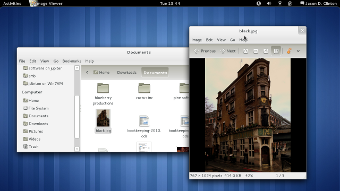
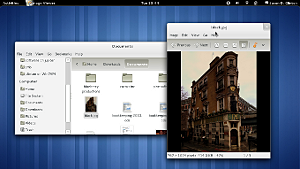
Use 12 column grid. It makes absolutely no sense to mix 16 and 12.
- I tink andreasn was jetlagged when he thought of that.

diff --git a/index.html b/index.html
@@ -19,18 +19,18 @@
 </head>
 <body>
 
-<div class="container_16">
-  <div class="grid_5">
+<div class="container_12">
+  <div class="grid_4">
     <a href="index.html"><img src="img/logo.png" class="logo"/></a>
   </div><!-- grid_4 -->
-  <div class="grid_10 prefix_1">
+  <div class="grid_7 prefix_1">
     <ul class="navigation"><li><a href="index.html">Home</a></li><li><a href="faq.html">Common questions and answers
 </a></li><li><a href="tryit.html">Try it out!</a></li></ul>
 <div class="countdown" style="visibility: hidden;">Releasing awesome in: <span id="countbox"></span></div>
   </div><!-- grid_12 -->
 </div>
-<div class="container_16">
-  <div class="grid_16">
+<div class="container_12">
+  <div class="grid_12">
       <div id="splash">
         <!-- Overlay decal can go here, like Alpha, Beta, NEW!
         <img class="alpha-banner" src="img/alpha-banner.png"/>
@@ -61,9 +61,9 @@
 
 <div class="clear"></div>
 
-<div class="container_16 features">
-  <div class="grid_6"><a href="img/overview-big.png" rel="fancybox"><img class="screenshot" src="img/overview.png"/></a></div>
-  <div class="grid_10">
+<div class="container_12 features">
+  <div class="grid_4"><a href="img/overview-big.png" rel="fancybox"><img class="screenshot" src="img/overview.png"/></a></div>
+  <div class="grid_8">
   <h2>Simply beautiful</h2>
 
   <p>GNOME's new desktop takes elegance to a new level. We've swept away the clutter and made a simple and easy-to-use desktop, and we've made this the most beautiful GNOME desktop ever, with a new visual theme, a refined new font and carefully crafted animations.</p>
@@ -73,8 +73,8 @@
   <p>The activities view provides an easy way to access all your windows and applications. It is also a great way to keep track of all your activities. We have provided several fast and convenient ways to access the activities view, including the activities keyboard key (often known as the Windows key) and the activities hot corner.</p>
 
   </div> <!-- grid_10 -->
-  <div class="grid_6"><a href="img/chat-big.png" rel="fancybox"><img class="screenshot" src="img/chat.png"/></a></div>
-  <div class="grid_10">
+  <div class="grid_4"><a href="img/chat-big.png" rel="fancybox"><img class="screenshot" src="img/chat.png"/></a></div>
+  <div class="grid_8">
     <h2>Messaging built-in</h2>
 
     <p>Communication is an important part of the modern desktop, but it's a hassle when you have to switch windows to reply to a message. That's why GNOME 3 will let you continue your conversations without changing focus. The ability to enter a reply straight into messaging notifications makes instant messaging quick and effortless.</p>
@@ -84,9 +84,9 @@
     <p>GNOME 3 is designed to reduce distraction and interruption and to put you in control. Our new notifications system subtly presents messages and will save them until you are ready for them, and the GNOME 3 panel has been styled so that it is part of the background, not the foreground. These changes allow you to focus on your creative tasks.</p>
   </div> <!-- grid_10 -->
 
-  <div class="grid_6"><a href="img/search-big.png" rel="fancybox"><img class="screenshot" src="img/search.png"/></a></div>
+  <div class="grid_4"><a href="img/search-big.png" rel="fancybox"><img class="screenshot" src="img/search.png"/></a></div>
 
-  <div class="grid_10">
+  <div class="grid_8">
     <h2>Everything at your fingertips</h2>
 
     <p>With the new GNOME desktop, everything can be quickly accessed from the keyboard. Press the activities key and search: it's as simple as that. You'll love this feature if you're a user who likes things to happen fast.</p>
@@ -97,7 +97,7 @@
 
   </div> <!-- grid_10 -->
 
-  <div class="grid_16 muchmore">
+  <div class="grid_12 muchmore">
     <h2>And much, much more</h2>
 
     <p>GNOME 3 is crammed full of new features. Here are some of the other things that you can look forward to from GNOME 3:</p>
@@ -108,9 +108,9 @@
       <li>Major changes under the hood to give you a faster, smoother experience</li>
       <li>A satisfying experience, whatever kind of computer you use: GNOME 3 will feel right at home on netbooks as well as larger machines</li>
     </ul>
-  </div> <!-- grid_16 -->
+  </div> <!-- grid_12 -->
 
-<div class="grid_16 footer">
+<div class="grid_12 footer">
 Copyright © 2011 <a href="http://www.gnome.org">The GNOME Project</a><br/>
 Free to share and remix: <a href="http://creativecommons.org/licenses/by/3.0/">Creative Commons CC-BY</a><br/>
 Share on: <a href="http://www.facebook.com/sharer.php?u=http%3A%2F%2Fwww.gnome3.org%2F&amp;t=GNOME%203">Facebook</a> | <a href="http://twitter.com/home?status=GNOME3%20-%20Introducing%20the%20next%20generation%20GNOME%20desktop%20http://www.gnome3.org">Twitter</a>
@@ -143,8 +143,8 @@ Share on: <a href="http://www.facebook.com/sharer.php?u=http%3A%2F%2Fwww.gnome3.
 </div>
 <br/>
 ❧
-</div><!-- grid_16 -->
-</div> <!-- container_16 -->
+</div><!-- grid_12 -->
+</div> <!-- container_12 -->
 
 </body>
 </html>

diff --git a/css/gnome3.css b/css/gnome3.css
@@ -91,7 +91,7 @@ a.faq {
 .intro { margin-bottom: 3em; }
 
 .screenshot {
-  width: 340px;
+  width: 300px;
 }
 
 .footer {
